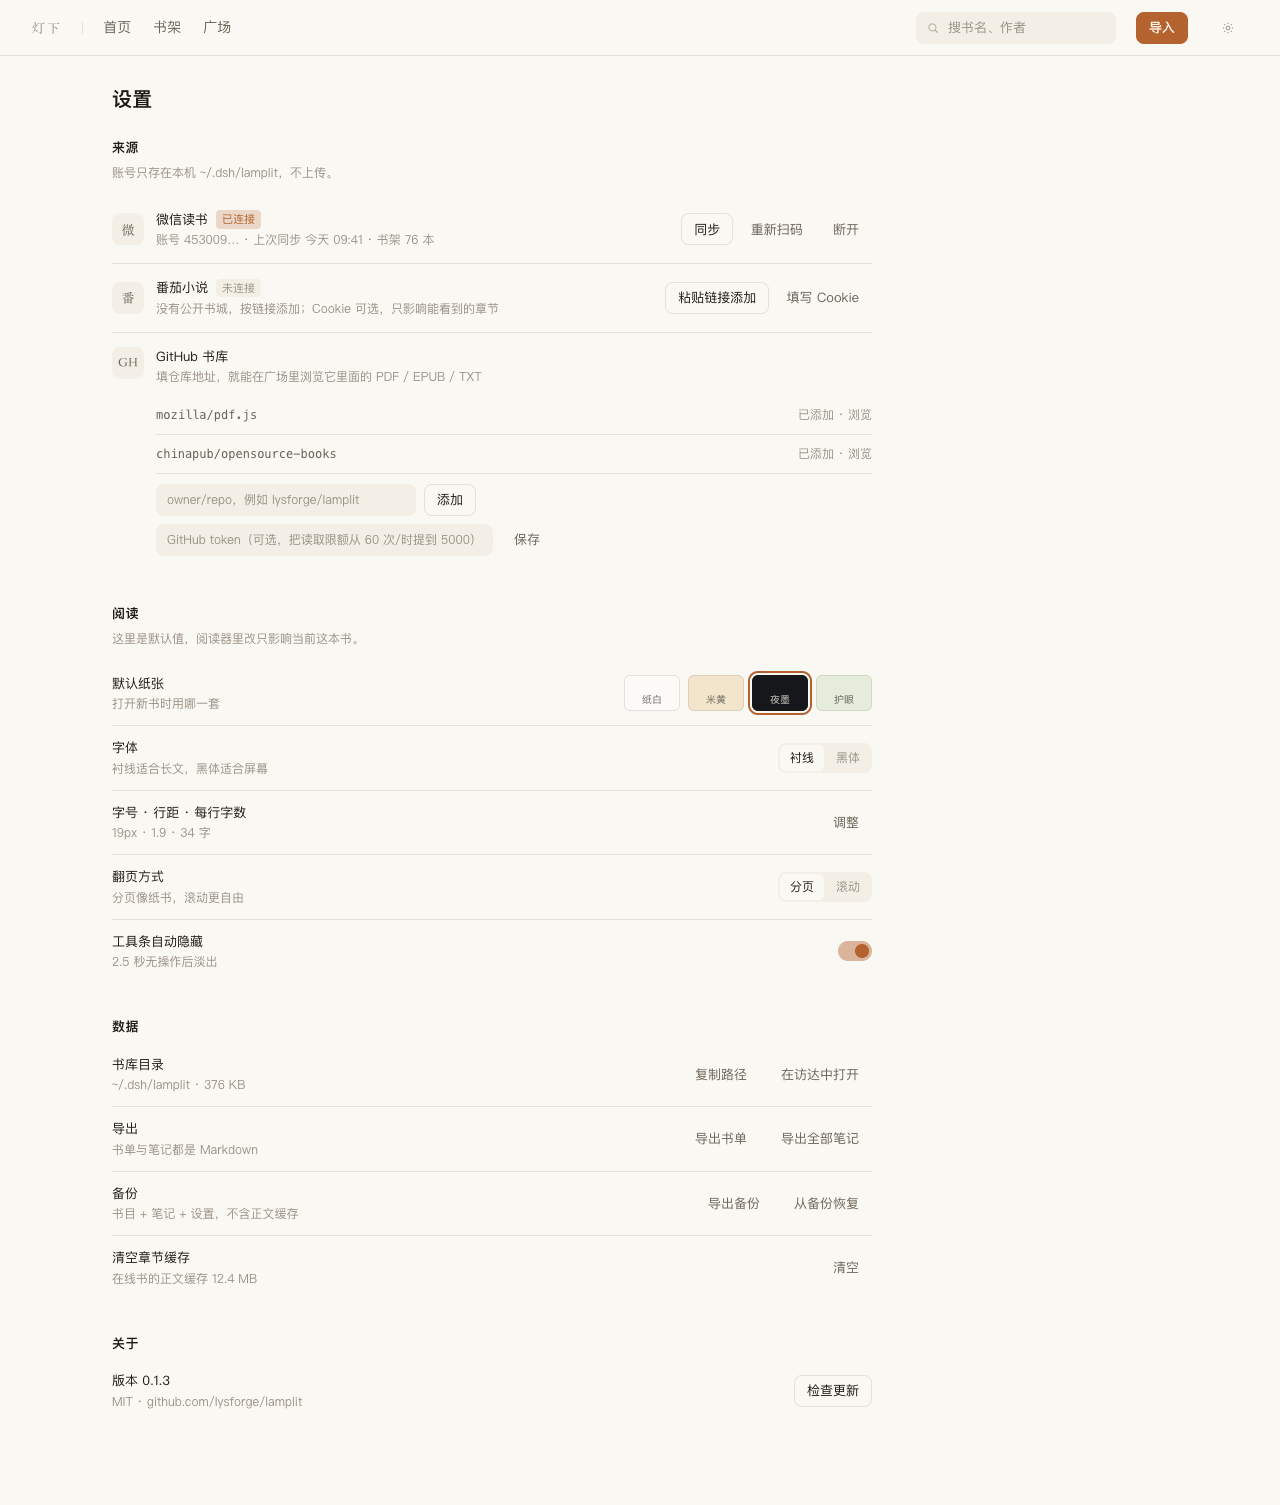
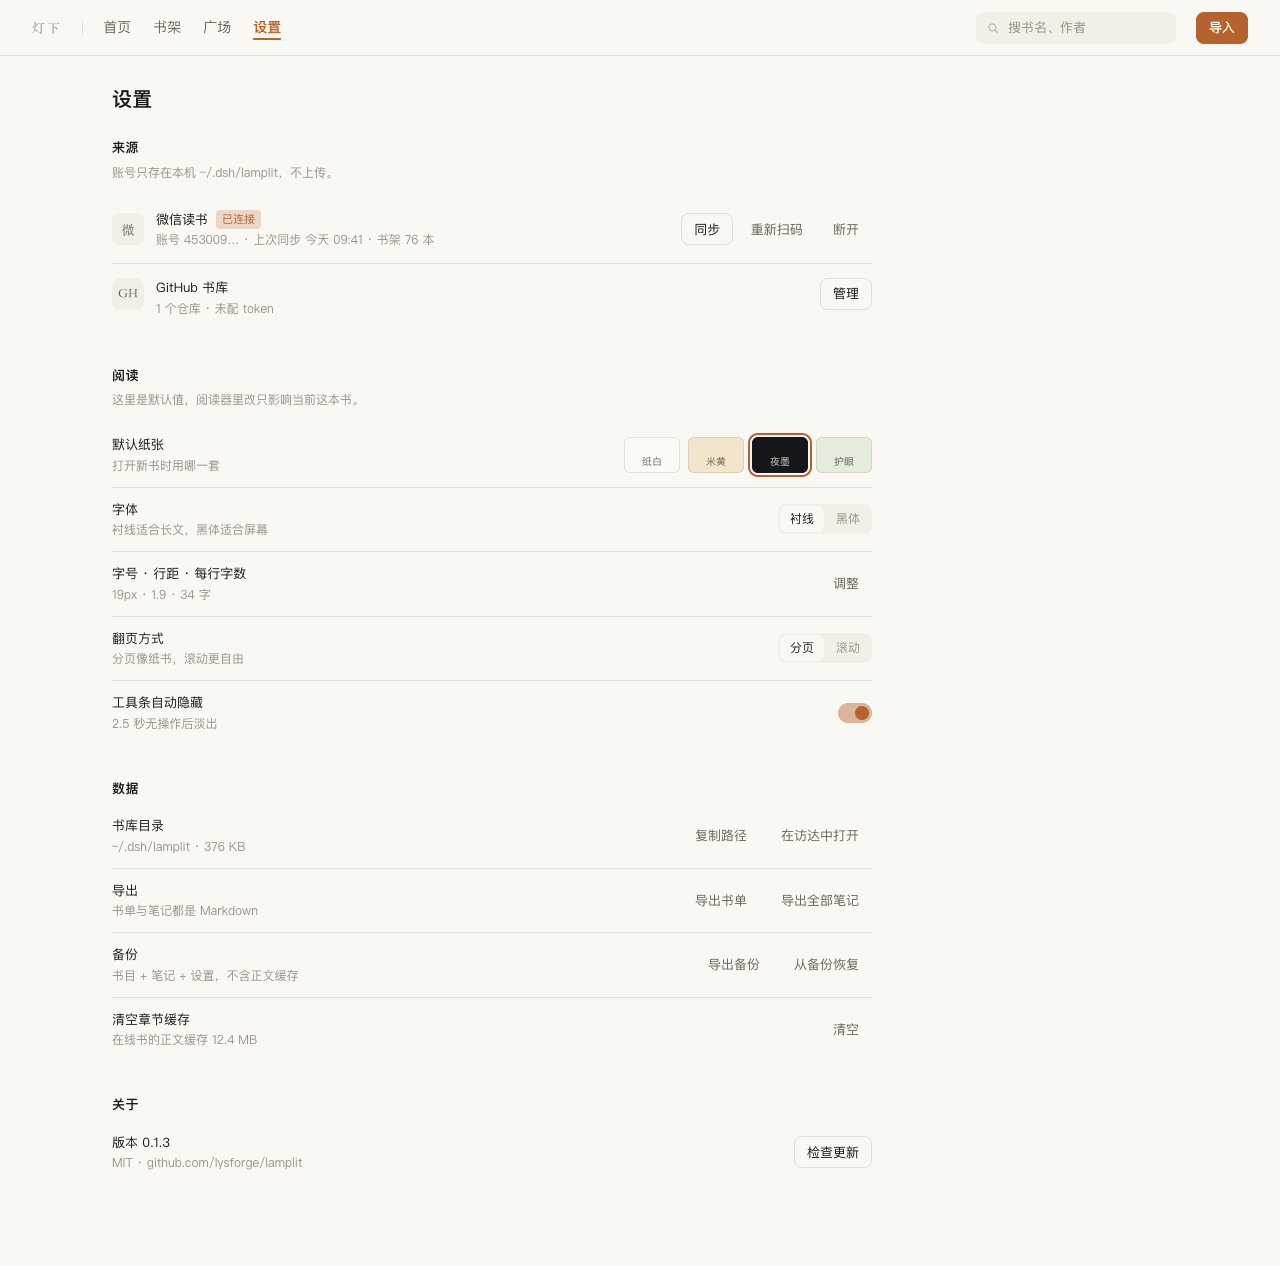
docs(design): 设计稿与实现对齐（平铺书源 / 10 本 / 分页 / 设置一行）；迷你封面只留类型

diff --git a/design/mockup.html b/design/mockup.html
@@ -4,6 +4,15 @@
 <meta charset="utf-8">
 <title>灯下 · 页面设计</title>
 <style>
+  .srcbar.flat{display:flex;flex-wrap:wrap;gap:8px}
+  .filerow{display:flex;align-items:center;justify-content:space-between;gap:12px;padding:4px 0 10px;border-bottom:1px solid var(--line);margin:2px 0 4px}
+  .filerow-right{display:flex;align-items:center;gap:14px}
+  .pager{display:inline-flex;align-items:center;gap:6px;font-size:12px;color:var(--ink3)}
+  .pager i{width:22px;height:22px;border:1px solid var(--line2);border-radius:6px;display:inline-flex;align-items:center;justify-content:center;font-style:normal}
+  .pager b{font-weight:500;color:var(--ink2)}
+  .hintrow{display:flex;align-items:center;justify-content:space-between;gap:12px;margin:2px 0 8px}
+  .c-xs{width:44px;height:59px;flex:none;border-radius:4px}
+
   :root{
     --bg:#141210; --panel:#1b1815; --panel2:#221e1a; --line:rgba(255,255,255,.09);
     --ink:#f4efe6; --ink2:#b9b1a4; --ink3:#7d766c;
@@ -316,7 +325,6 @@ const views = {
     <div class="toolbar">
       <button class="chip" data-on>全部来源 <i>76</i></button>
       <button class="chip"><span class="dot"></span>微信读书 <i>74</i></button>
-      <button class="chip"><span class="dot" style="background:var(--ink3)"></span>番茄 <i>0</i></button>
       <button class="chip">本地 <i>2</i></button>
       <span class="spacer"></span>
       <button class="chip" data-on>在读 <i>3</i></button>
@@ -332,7 +340,7 @@ const views = {
           <div class="meta"><em>${b.a}</em><b>${b.p}%</b></div>
         </div>`).join('')}
     </div>
-    <p class="foot">76 本 · 微信读书 74 · 本地 2 · 番茄 0</p>
+    <p class="foot">76 本 · 微信读书 74 · 本地 2</p>
   `,
 
   empty: () => `
@@ -350,7 +358,7 @@ const views = {
         <button class="btn">连接微信读书</button>
         <button class="btn quiet">去广场看看</button>
       </div>
-      <p class="tiny">也可以去「广场」搜公版书，古登堡与维基文库里的书能直接下载到本地。</p>
+      <p class="tiny">也可以在「广场」里搜索微信读书书城，或浏览你添加的 GitHub 书库。</p>
     </div>
   `,
 
@@ -379,21 +387,9 @@ const views = {
           <div class="mark">GH</div>
           <div class="main">
             <b>GitHub 书库</b>
-            <p>填仓库地址，就能在广场里浏览它里面的 PDF / EPUB / TXT</p>
-            <div style="margin-top:10px">
-              <div class="repo"><code>mozilla/pdf.js</code><span>已添加 · 浏览</span></div>
-              <div class="repo"><code>chinapub/opensource-books</code><span>已添加 · 浏览</span></div>
-              <div style="display:flex;gap:8px;margin-top:10px">
-                <div class="field wide">owner/repo 或 owner/repo#子目录，例如 mozilla/pdf.js</div>
-                <button class="btn">添加</button>
-              </div>
-              <p style="margin:6px 0 0;font-size:12px;color:var(--ink3)">示例：填 <code style="font-family:ui-monospace,Menlo,monospace">mozilla/pdf.js</code> 可以立刻看到 1000+ 个测试 PDF，用来验证通路；真书请填你自己的仓库。</p>
-              <div style="display:flex;gap:8px;margin-top:8px;align-items:center">
-                <div class="field wide">GitHub token（可选，把读取限额从 60 次/时提到 5000）</div>
-                <button class="btn quiet">保存</button>
-              </div>
-            </div>
+            <p>1 个仓库 · 未配 token</p>
           </div>
+          <div class="ctl"><button class="btn">管理</button></div>
         </div>
       </section>
 
@@ -450,7 +446,7 @@ const views = {
       <section class="sect">
         <h2>关于</h2>
         <div class="srow">
-          <div class="lbl"><b>版本 0.1.3</b><span>MIT · github.com/lysforge/lamplit</span></div>
+          <div class="lbl"><b>版本 0.2.0</b><span>MIT · github.com/lysforge/dsh-lamplit</span></div>
           <div class="ctl"><button class="btn">检查更新</button></div>
         </div>
       </section>
@@ -459,78 +455,91 @@ const views = {
 
   plaza: () => {
     const src = new URLSearchParams(location.search).get('src') || 'weread';
-    const tabs = [['weread','微信读书'],['github','GitHub 书库']];
-    const bar = `<div class="srcbar">${tabs.map(([k,l])=>`<button class="chip" ${k===src?'data-on':''}>${l}</button>`).join('')}</div>`;
-    if (src === 'fanqie') {
-      const picks = ['部族荣光','莫若凌霄','高手下山，我有九个无敌师父！','惊鸿','玄幻，我顿悟了混沌体','武碎星河'];
-      return `
-        <h1 style="display:none">广场</h1>
-        ${bar}
-        <div class="srch">
-          <div class="field"><svg class="icon" viewBox="0 0 24 24" fill="none" stroke="currentColor" stroke-width="1.6"><circle cx="11" cy="11" r="6"/><path d="M15.6 15.6 20 20"/></svg>粘贴番茄书籍链接，例如 fanqienovel.com/page/7143…</div>
-          <button class="btn primary">添加</button>
-        </div>
-        <p class="hint">番茄没有公开的搜索接口（带滑块验证），所以这里不搜索：贴一条链接就能加，目录会同步过来。</p>
-        <div class="sec"><h2>番茄精选</h2><a class="link">换一批 ↻</a></div>
-        <div class="grid" style="grid-template-columns:repeat(6,1fr);gap:24px 20px">
-          ${picks.map((t,i)=>`
-            <div class="book">
-              ${cover(['linear-gradient(150deg,#7c3a3a,#3a1a1a)','linear-gradient(150deg,#2f4a5e,#16232c)','linear-gradient(150deg,#5a4a2a,#2a2112)','linear-gradient(150deg,#4a3a5e,#221a2c)','linear-gradient(150deg,#2e5a4a,#152a22)','linear-gradient(150deg,#5e3a2a,#2c1a12)'][i],'c-grid','番茄',t)}
-              <h4>${t}</h4>
-              <div class="meta"><em>番茄小说</em><b>加入</b></div>
-            </div>`).join('')}
-        </div>
-        <p class="hint" style="margin-top:26px">番茄的公开正文做了字体混淆，多数章节只能读目录；导入到本地之后能看的部分我会如实标出来。</p>
-      `;
-    }
-    if (src === 'github') {
+    const bar = `<div class="srcbar flat">
+      <button class="chip" ${src==='weread'?'data-on':''}>微信读书</button>
+      <button class="chip" ${src==='github'?'data-on':''}>GitHub · Dujltqzv / Some-Many-Books</button>
+      <button class="chip" ${src==='github2'?'data-on':''}>GitHub · mozilla / pdf.js</button>
+    </div>`;
+
+    if (src === 'github' || src === 'github2') {
+      const files = src === 'github'
+        ? [
+            ['PDF-file/algorithms/算法（第4版）.pdf','85.9 MB'],
+            ['PDF-file/algorithms/算法导论（第2版）.pdf','48.5 MB'],
+            ['PDF-file/algorithms/数据结构与算法分析：C语言描述（第2版）.pdf','38.9 MB'],
+            ['PDF-file/algorithms/数据结构与算法分析：Java语言描述.pdf','36.9 MB'],
+            ['PDF-file/algorithms/剑指offer名企面试官精讲典型编程题.pdf','21.5 MB'],
+            ['PDF-file/computer/深入理解计算机系统（第3版）.pdf','62.1 MB'],
+            ['PDF-file/computer/计算机网络：自顶向下方法.pdf','44.8 MB'],
+            ['PDF-file/computer/操作系统导论.pdf','18.2 MB'],
+            ['PDF-file/computer/数据库系统概念.pdf','39.4 MB'],
+            ['PDF-file/computer/编译原理.pdf','51.0 MB']
+          ]
+        : [
+            ['examples/learning/helloworld.pdf','678 B'],
+            ['test/pdfs/160F-2019.pdf','320 KB'],
+            ['web/compressed.tracemonkey-pldi-09.pdf','993 KB'],
+            ['test/pdfs/issue6721_reduced.pdf','1.2 MB'],
+            ['test/pdfs/alphatrans.pdf','48 KB'],
+            ['test/pdfs/annotation-tx.pdf','96 KB'],
+            ['test/pdfs/background-clip-text.pdf','212 KB'],
+            ['test/pdfs/basicapi.pdf','12 KB'],
+            ['test/pdfs/bug1020226.pdf','184 KB'],
+            ['test/pdfs/cmykjpeg.pdf','1.6 MB']
+          ];
       return `
         <h1 style="display:none">广场</h1>
         ${bar}
         <div class="srch">
           <div class="field"><svg class="icon" viewBox="0 0 24 24" fill="none" stroke="currentColor" stroke-width="1.6"><circle cx="11" cy="11" r="6"/><path d="M15.6 15.6 20 20"/></svg>在已添加的仓库里搜文件名</div>
-          <button class="btn primary">搜索</button>
-          <button class="btn">添加仓库</button>
         </div>
-        <p class="hint">GitHub 书库只做通路：你填仓库，我列它里面的 PDF / EPUB / TXT，点一下下载到本地书架。内容与授权由你确认。</p>
-        <div class="sec"><h2>mozilla / pdf.js</h2><a class="link">刷新目录</a></div>
+        <div class="filerow">
+          <span class="tiny">共 ${src === 'github' ? 110 : 29} 个文件</span>
+          <span class="filerow-right"><a class="link">刷新目录</a><span class="pager"><i>‹</i><b>1 / ${src === 'github' ? 11 : 3}</b><i>›</i></span></span>
+        </div>
         <ul class="list">
-          ${[
-            ['examples/learning/helloworld.pdf','678 B','PDF'],
-            ['test/pdfs/160F-2019.pdf','320 KB','PDF'],
-            ['web/compressed.tracemonkey-pldi-09.pdf','993 KB','PDF']
-          ].map(([f,size,kind])=>`
+          ${files.map(([f,size],i)=>`
             <li class="item">
-              <div class="mark" style="width:32px;height:32px;border-radius:6px;background:var(--panel2);display:grid;place-items:center;font-size:10px;color:var(--ink3)">${kind}</div>
-              <div class="item-main"><p class="item-title">${f}</p><p class="item-sub">${size} · 点下载会转成可读的书籍</p></div>
+              ${cover(['linear-gradient(150deg,#6b6152,#2b2823)','linear-gradient(150deg,#59626b,#22262b)','linear-gradient(150deg,#6b5a52,#2b2320)','linear-gradient(150deg,#526b5f,#202b26)','linear-gradient(150deg,#5a526b,#23202b)'][i%5],'c-xs','PDF','')}
+              <div class="item-main"><p class="item-title">${f.split('/').pop()}</p><p class="item-sub">${f} · ${size}</p></div>
               <button class="btn">下载</button>
             </li>`).join('')}
         </ul>
-        <p class="hint" style="margin-top:24px">支持子目录：填 <code style="font-family:ui-monospace,Menlo,monospace">owner/repo#books</code> 就只列 books/ 下面的文件。私有仓库需要在设置里填 token。</p>
       `;
     }
+
+    const picks = [
+      ['不要灵魂不朽，只要走遍地球','猴面包的树','精品小说 · 纪实小说'],
+      ['致流浪的母亲：坐上火车去新疆','李娟','文学 · 散文杂著'],
+      ['马驹桥的时间：清华博士的日结手记','丛瑞安','文学 · 纪实文学'],
+      ['太阳的阴影','[波] 雷沙德·卡普希钦斯基','社会文化 · 文化'],
+      ['心理咨询师沈秋色：她所见过的婚姻','鱼翘','精品小说 · 女性小说'],
+      ['中国哲学简史','冯友兰','哲学 · 中国哲学'],
+      ['置身事内','兰小欢','经济 · 中国经济'],
+      ['我们仨','杨绛','文学 · 散文'],
+      ['人类简史','[以] 尤瓦尔·赫拉利','历史 · 世界史'],
+      ['被讨厌的勇气','[日] 岸见一郎','心理学 · 通俗读物']
+    ];
     return `
-    <h1 style="display:none">广场</h1>
-    ${bar}
-    <div class="srch">
-      <div class="field"><svg class="icon" viewBox="0 0 24 24" fill="none" stroke="currentColor" stroke-width="1.6"><circle cx="11" cy="11" r="6"/><path d="M15.6 15.6 20 20"/></svg>搜书名、作者、关键词</div>
-      <button class="btn primary">搜索</button>
-    </div>
-    <p class="hint">微信读书书城 · 用你登录的账号搜索，搜到的加进书架就能读</p>
-    <ul class="list">
-      ${[
-        {t:'乌合之众：群体心理研究', a:'[法] 古斯塔夫·勒庞', s:'社会学 · 12.4 万字', go:'加入书架'},
-        {t:'社会性动物（第 12 版）', a:'[美] 埃利奥特·阿伦森', s:'心理学 · 38.1 万字', go:'加入书架'},
-        {t:'狂热分子', a:'[美] 埃里克·霍弗', s:'社会学 · 9.8 万字', go:'加入书架'}
-      ].map((b,i)=>`
-        <li class="item">
-          ${cover(BOOKS[i].c,'c-sm','',b.t)}
-          <div class="item-main"><p class="item-title">${b.t}</p><p class="item-sub">${b.a} · ${b.s}</p></div>
-          <button class="btn">${b.go}</button>
-        </li>`).join('')}
-    </ul>
-    <p class="hint" style="margin-top:28px">换个书源看看：古登堡与维基文库是公版书，能直接下载到本地；GitHub 书库填仓库地址即可浏览其中的 PDF / EPUB。</p>
-  `;
+      <h1 style="display:none">广场</h1>
+      ${bar}
+      <div class="srch">
+        <div class="field"><svg class="icon" viewBox="0 0 24 24" fill="none" stroke="currentColor" stroke-width="1.6"><circle cx="11" cy="11" r="6"/><path d="M15.6 15.6 20 20"/></svg>搜书名、作者，例如 基督山伯爵</div>
+        <button class="btn primary">搜索</button>
+      </div>
+      <div class="hintrow">
+        <p class="hint" style="margin:0">搜微信读书书城；搜到的点「加入书架」就能读。没搜的时候下面是分类页里的书。</p>
+        <a class="link">换一批</a>
+      </div>
+      <ul class="list">
+        ${picks.map(([t,a,c],i)=>`
+          <li class="item">
+            ${cover(['linear-gradient(150deg,#6b5f4a,#2b2419)','linear-gradient(150deg,#4a5f6b,#19242b)','linear-gradient(150deg,#5f4a5f,#241924)','linear-gradient(150deg,#4a6b57,#192b21)','linear-gradient(150deg,#6b4a4a,#2b1919)'][i%5],'c-xs','',t)}
+            <div class="item-main"><p class="item-title">${t}</p><p class="item-sub">${a} · ${c}</p></div>
+            <button class="btn">加入书架</button>
+          </li>`).join('')}
+      </ul>
+    `;
   }
 };
 

diff --git a/client.js b/client.js
@@ -3314,7 +3314,10 @@ window.__ModuleLoader__.load({
                     'span',
                     { className: 'pb-mini-cover' },
                     h(Cover, {
-                      book: { title: (file.name || file.path || '').replace(/\.[^.]+$/, ''), author: String(file.kind || '').toUpperCase() },
+                      book: {
+                        title: String(file.name || file.path || '').replace(/\.[^.]+$/, '').slice(0, 2),
+                        author: String(file.kind || '').toUpperCase(),
+                      },
                       t,
                       size: 'xs',
                     }),
